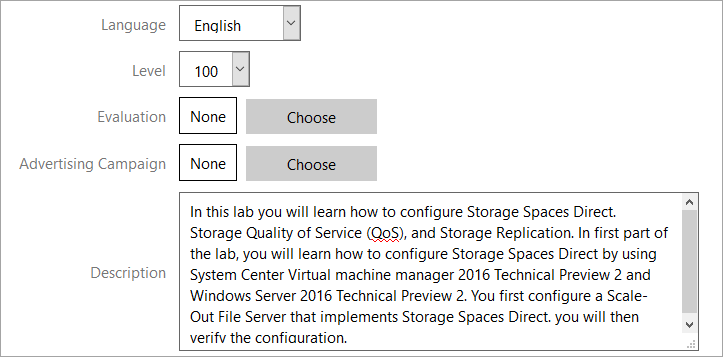
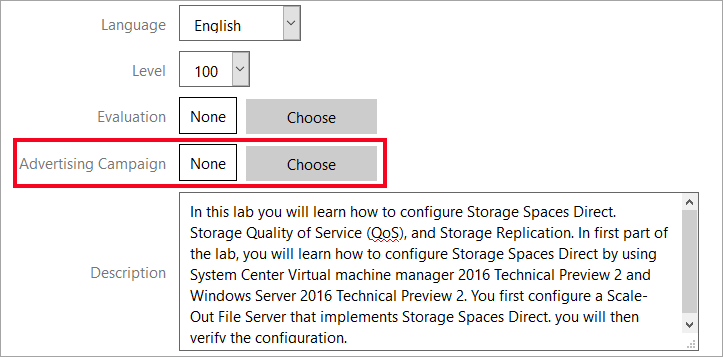
Updated tooltips and gif

Changed region(s): [[0.0, 0.3697, 0.5477, 0.5238]]

diff --git a/idl2/idlv2-authoring-guide-and-best-practice.md b/idl2/idlv2-authoring-guide-and-best-practice.md
@@ -27,7 +27,7 @@ A successful lab that is well-received by users usually contains more than a sim
 
 A lab launch may take anywhere from a few seconds to a couple of minutes to fully launch, depending on the Cloud platform chosen and/or the size and number of VMs (if using VMs). During this time, a window will appear with a message saying that the lab is ready. 
 
-![](images/idl2-lab-ready.png)
+![Your lab is ready!](images/idl2-lab-ready.png)
 
 Clicking **_Get Ready_** will open close that window and open two other windows; the Portal window and the Lab Instructions, as shown in the [Overview of the Lab Interface](#Overview-of-the-lab-interface).
 
@@ -53,7 +53,7 @@ The IDL v2 platform can provide the user with an introduction that appears first
 
 A lab's instructions can be organized into one or more pages that represent a set of logically related tasks that result in the completion of some goal, or a lab can be organized into a combination of exercises and tasks, in no particular order. A lab task is usually a single step or a small set of closely related steps that form a unit. For example, a task might provide all the steps that a user must perform to complete a dialog box, or a task may be something smaller, such as logging into a portal or creating a file. 
 
-![](images/idl2-exercises-tasks.png)
+![Lab instructions](images/idl2-exercises-tasks.png)
 
 You can add rich media content delivered from external sources (URLs) that the user can access at any point in the lab instructions, or embed video or images to provide additional context to the lab instructions. External sources can be provided with [Markdown Syntax](#Markdown-syntax) or by configuring URLs in the lab profile. URLs configured in the lab profile will be available in the lab, from the Resources tab. 
 
@@ -61,7 +61,7 @@ You can add rich media content delivered from external sources (URLs) that the u
 
 This section describes the user lab interface. Within the lab interface on the right side, the lab instructions are displayed. The right navigation pane also contains the Resources tab  and Help tab.Tasks or any other items that the student is instructed to do can have a Task Checkbox (as shown in the image above) at the beginning of the item.When a task is performed that has a Task checkbox, the user clicks the checkbox.  Task Checkboxes are used track and report lab progress to LOD and TMS, as well as a visual marker for students. Lab progress is calculated by the percentage of Task Checkboxes that are checked in the lab instructions.
 
-![](images/idl2-example-with-instructions.png)
+![Lab Interface](images/idl2-example-with-instructions.png)
 
 The left window is known as the **Portal Window**. This window can be configured to display any URL, in the lab profile configuration page. The URL of the Portal Window can changed during the lab, using Markdown syntax (discussed later in this guide).  This window can also be configured to display virtual machines (if the lab profile is configured with VMs).
 
@@ -82,7 +82,7 @@ For a lab to display IDL v2 content, content must be enabled in the lab profile 
 2.  Click **Edit** on the lab profile page.
 3.  On the **Basic Information tab** of the lab profile Edit page, check **Has IDL Content**.
 
-![](images/has-idl-content.png)
+![Has IDL Content and IDL version selection](images/has-idl-content.png)
 
 3. Click the up arrow to **change the selection to 2**, to enable IDL version 2.
 4. Click **Save**.
@@ -178,7 +178,7 @@ Once lab content is enabled, you must the check out the IDL v2 lab instructions.
 
 To check out the IDL v2 manual, navigate to the lab profile page, and then click **Check Out**.
 
-![](images/check-out-lab-profile.png)
+![Check out lab profile](images/check-out-lab-profile.png)
 
 Once you have checked out the IDL manual for editing, you are now ready to add lab instructions directly into the IDL v2 user interface. 
 
@@ -186,7 +186,7 @@ Once you have checked out the IDL manual for editing, you are now ready to add l
 
 When using this option, a new page will open with a text editor and a preview pane. This gives you the ability to create lab instructions, and see a live preview of how they will be displayed to the user during the lab. To edit the lab instructions, click **Edit Instructions**, as shown below.
 
-![](images/edit-instructions.png)
+![Edit Instructions](images//edit-instructions.png)
 
 In this mode, only the manual opens for editing; the Cloud Client has not been launched and no VMs are running. 
 
@@ -198,7 +198,7 @@ Content is created using a combination of Markdown and plain text. HTML can also
 
 The image below shows what will be seen after clicking **Edit instructions**, as discussed in the previous section. This text editor is where all of the lab content is written and stored. The left side of the editor shows the raw syntax of the lab content, whereas the right side shows how the lab content will be rendered and displayed to users.
 
-![IDL 2 Text Editor](images/idl2-text-editor.png)
+![IDL 2 Lab Editor](images/idl2-text-editor.png)
 
 - **Disk icon:** click to save current progress
 - **@lab:** Replacement Tokens are used to create a placeholder, to later insert information into. This is helpful if you do not know the information at the time of authoring the lab, but would like specific information to be inserted later when the user is in the lab. Examples of this are usernames, passwords, unique ID numbers, etc.
@@ -233,7 +233,7 @@ A completion message provides a brief summary and congratulatory message to the 
 
 You have multiple lab instructions, you can change the order from within the user interface. To change the order of a task, copy the syntax of the lab instruction and paste into the correct location, using keyboard shortcuts (CTRL+C, CTRL+V).
 
-![](images/move-lab-instruction.gif)
+![Moving lab instructions](images/move-lab-instruction.gif)
 
 ### Tasks
 
@@ -311,7 +311,7 @@ To add a virtual machine to the lab instructions using a Replacement Token:
 
 - VMs that are configured to the lab profile will automatically be added to the Resources tab. 
 
-![](images/vm-select-from-resources-tab.png)
+![VMs on Resource tab](images/vm-select-from-resources-tab.png)
 
 ### Removable Media
 
@@ -563,13 +563,13 @@ Markdown allows for text to be resized by typing 1-6 # (hash or pound) symbols i
 
   > \> [!KNOWLEDGE] knowledge text here.
 
-![](images/idl2-knowledge.png)
+![Knowledge Block](images/idl2-knowledge.png)
 
 - **Alert:** Used to draw attention to important issues, such as showing additional information or steps that the student may need complete to avoid other issues. Alerts are useful whenever you want the users to pause and take note of additional and important information. From the user’s perspective, alerts are mandatory because they will appear inline in lab instructions. 
 
   > \> [!ALERT] alert text here.
 
-![](images/idl2-alert.png)
+![](Alert/idl2-alert.png)
 
 - **Note:** Used to provide additional information, similar to a Knowledge Block, with the only difference being that Notes do not collapse and show a _more_ link to expand the section. 
 
@@ -661,8 +661,6 @@ To initiate the Command , the lab user clicks on lightning bolt) icon in the lab
 
 ## Add Review Questions as an Assessment Exam to a Lab
 
-### Exams
-
 Each lab, regardless of whether it has content, can provide an optional exam at the end of lab. This can serve a number of purposes: to reinforce learning, to measure retention of concepts, to provide metrics on effectiveness of lab delivery, etc. Exams are categorized by the type of scoring used; there are three to choose from:
 
 1. **Assessment** - Traditional multiple choice test that is scored automatically.
@@ -674,11 +672,11 @@ Each lab, regardless of whether it has content, can provide an optional exam at 
 Review questions can be added to a lab as an assessment. The assessment will appear when the user has completed all the lab steps. It is created on the Exam tab of the lab profile. To create an assessment, click the
 **Exam** tab, and then check **Has Exam**. 
 
-![](images/exam-tab-has-exam.png)
+![Has exam](images/exam-tab-has-exam.png)
 
 To create a multiple choice review, in the Scoring Type drop-down, select **Assessment**, set the **Passing Score**, and then click **Add Page**. Pages provide a way to organize the review content into categories that, for example, might follow the lab exercises or topics. Enter a page name and click **Add Question**. Type the question, add the multiple choice selections, select the correct answer(s), and set the **Score Value** so that the exam can be scored.
 
-![](images/exam-example-questions.png)
+![Example multiple choice assessment](images/exam-example-questions.png)
 
 ## Additional Features
 
@@ -692,11 +690,11 @@ To convert an IDL v1 lab to IDL v2:
 
 2. Click **Upgrade** next to **Has IDL Content**. (this will display the current version of the lab profile)
 
-![Upgrade Button](images/upgrade-button.png)
+![Upgrade lab profile to IDL 2](images/upgrade-button.png)
 
 3. Select how screenshots and videos should be converted. They can be converted **inline** (recommended) or **as links**.
 
-   ![screenshots-as-links-or-inline](images/screenshots-as-links-or-inline.png)
+   ![Select how screenshots and videos will be converted](images/screenshots-as-links-or-inline.png)
 
    4. After making a selection, **Click OK** to convert the lab to IDL v2.
 
@@ -708,27 +706,27 @@ An advertising campaign allows you to provide introductory content across multip
 
 -   You will require special permissions to see this tile.
 
-![](images/advertising-tile.png)
+![Advertising Campaign Tile from Admin screen](images/advertising-tile.png)
 
 To create an advertising campaign, click **Create Advertising Campaign**. On the edit, enter a name for the campaign, as shown below.
 
-![](images/advertising-campaign-basic-info.png)
+![Create Advertising Campaign](images/advertising-campaign-basic-info.png)
 
 Click the **Intros** tab and enter the URL source for the video, graphics presentation, or other information you wish to display. Multiple URLs can be entered on separate lines and will display randomly. If wanted, check the box and set the minimum amount of time to show the content. With this configured, the users will not be able to close the presentation early.
 
-![](images/advertising-campaign-intro.png)
+![Advertising Campaign Intro](images/advertising-campaign-intro.png)
 
 To configure a lab profile with an advertising campaign, on the lab profile page, click **Edit**.
 
-![](images/lab-profile-edit-button.png)
+![Edit lab profile](images/lab-profile-edit-button.png)
 
 Beside Advertising Campaign, click **Choose**, then locate and select the advertising campaign.
 
-![](images/advertising-campaign-in-lab-profile-edit.png)
+![Select Advertising Campaign](images/advertising-campaign-in-lab-profile-edit.png)
 
 The advertising campaign can also be associated with a lab series or a lab profile. The following screenshot shows the configuration page for an example lab series.
 
-![](images/advertising-campaign-in-lab-series.png)
+![Add Advertising Campaign to Lab Series](images/advertising-campaign-in-lab-series.png)
 
 ### Incorporate Rich Media Content as Part of Lab Introduction
 
@@ -736,7 +734,7 @@ Although you can use Advertising Campaigns at the level of the lab profile, it i
 
 To do this, on the Edit Lab Profile page, scroll down and type the URL for the rich media content in the **Introduction Content URL** field. Like the advertising campaign, you can also force the rich media to be displayed for a minimum amount of time by checking the box to Show for at least **__** seconds.
 
-![](images/introduction-content-url.png)
+![Introduction Content URL](images/introduction-content-url.png)
 
 ## Common Style Guidelines
 
